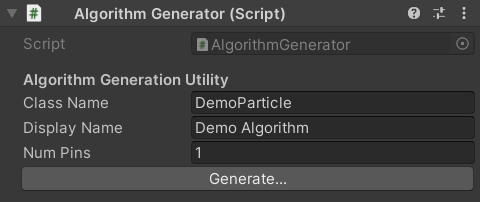
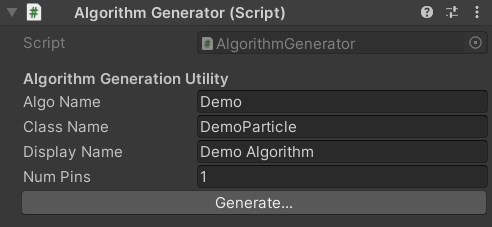
Adapted user guide to new namespaces and algorithm template structure

diff --git a/Documentation/user_guide/dev/demo.md b/Documentation/user_guide/dev/demo.md
@@ -25,6 +25,7 @@ In each round, the leader randomly decides whether a movement should be performe
 If it decides to perform a movement, it will send a beep on the global circuit (which has to be established first).
 All particles receiving a beep will perform a movement:
 If they are contracted, they will expand in the East direction and if they are expanded, they will contract into their tail.
+If some of these terms seem unfamiliar, you can refer to the [Model Reference pages](~/model_ref/home.md) for more information.
 
 From this description of the algorithm, we can already deduce that we will need a custom initialization method to place the particles and determine a leader, and that a single pin will be sufficient for this simple communication.
 Due to the common compass orientation, all particles know where the East direction is, which simplifies the movements (although it is possible to lift that assumption and still achieve a very similar behavior!).
@@ -56,20 +57,20 @@ Our new initialization method does not need parameters, but we will make the num
 
 ### Enabling Custom Initialization
 
-To start with, we uncomment the `DemoParticleInitializer` class at the bottom of the template file as well as the `GenerationMethod` property of the `DemoParticle` class and enter the name of the initializer class:
+To start with, we uncomment the `DemoInitializer` class at the bottom of the template file as well as the `GenerationMethod` property of the `DemoParticle` class and enter the name of the initializer class:
 
 ```csharp
 public class DemoParticle : ParticleAlgorithm
 {
     ...
     // If the algorithm has a special generation method, specify its full name here
-    public static new string GenerationMethod => typeof(DemoParticleInitializer).FullName;
+    public static new string GenerationMethod => typeof(DemoInitializer).FullName;
     ...
 }
 
-public class DemoParticleInitializer : InitializationMethod
+public class DemoInitializer : InitializationMethod
 {
-    public DemoParticleInitializer(ParticleSystem system) : base(system) { }
+    public DemoInitializer(AS2.Sim.ParticleSystem system) : base(system) { }
 
     // This method implements the system generation
     // Its parameters will be shown in the UI and they must have default values
@@ -162,7 +163,7 @@ We also change the leader particle's color so that it can be distinguished from 
 By adding the `leader` parameter to the `Init` method, we have implicitly created an attribute for the [`InitializationParticles`][6] placed by the generation method.
 In the Initialization Mode, all particles are placed as [`InitializationParticles`][6], which can be moved, deleted and edited freely.
 When the "Start" button is pressed, the [`InitializationParticles`][6] are turned into proper particles and their attributes are passed as parameters to the `Init` method of those particles.
-Thus, we could now manually determine a leader by selecting one of the particles in the Init Mode, setting its `leader` attribute to `true` and pressing "Start":
+Thus, we can now manually determine a leader by selecting one of the particles in the Init Mode, setting its `leader` attribute to `true` and pressing "Start":
 ![Selecting a leader manually](~/images/demo_init_manual_leader.png "Selecting a leader manually in Init Mode")
 ![Selected leader during simulation](~/images/demo_init_manual_leader_2.png "Manually selected leader in Simulation Mode")
 
@@ -269,7 +270,7 @@ If we run the algorithm now, the particles will set up the global circuit and th
 ![The established global circuit](~/images/demo_circuit_setup.png "The established global circuit")
 ![Irregular beeps](~/images/demo_circuit_beep.png "Irregular beeps indicated by the white flashes")
 
-The visual representation of the pin configurations clearly shows that all pins of each particle are contained in a single partition set.
+The visual representation of the pin configurations clearly shows that all pins of each particle are contained in a single partition set and that all partition sets are connected in a global circuit.
 When the leader sends a beep, its partition set is highlighted with a white dot and all connection lines of the circuit are flashing white.
 
 ### Performing the Movements
@@ -316,92 +317,98 @@ Please refer to the [Bonds and Joint Movements reference](~/model_ref/bonds_jm.m
 With the movements in place, our demo algorithm is complete!
 Here is the final code:
 ```csharp
+using AS2.Sim;
 using UnityEngine;
 
-public class DemoParticle : ParticleAlgorithm
+namespace AS2.Algos.Demo
 {
-    // This is the display name of the algorithm (must be unique)
-    public static new string Name => "Demo Algorithm";
 
-    // Specify the number of pins (may be 0)
-    public override int PinsPerEdge => 1;
-
-    // If the algorithm has a special generation method, specify its full name here
-    public static new string GenerationMethod => typeof(DemoParticleInitializer).FullName;
-
-    // Declare attributes here
-    public ParticleAttribute<bool> isLeader;
-
-    public DemoParticle(Particle p) : base(p)
+    public class DemoParticle : ParticleAlgorithm
     {
-        isLeader = CreateAttributeBool("Is Leader", false);
+        // This is the display name of the algorithm (must be unique)
+        public static new string Name => "Demo Algorithm";
 
-        SetMainColor(ColorData.Particle_Blue);
-    }
+        // Specify the number of pins (may be 0)
+        public override int PinsPerEdge => 1;
 
-    // Implement this if the particles require special initialization
-    // The parameters will be converted to particle attributes for initialization
-    public void Init(bool leader = false)
-    {
-        if (leader)
+        // If the algorithm has a special generation method, specify its full name here
+        public static new string GenerationMethod => typeof(DemoInitializer).FullName;
+
+        // Declare attributes here
+        public ParticleAttribute<bool> isLeader;
+
+        public DemoParticle(Particle p) : base(p)
         {
-            isLeader.SetValue(true);
-            SetMainColor(ColorData.Particle_Green);
+            isLeader = CreateAttributeBool("Is Leader", false);
+
+            SetMainColor(ColorData.Particle_Blue);
         }
-    }
 
-    // The movement activation method
-    public override void ActivateMove()
-    {
-        PinConfiguration pc = GetCurrentPinConfiguration();
-        if (pc.ReceivedBeepOnPartitionSet(0))
+        // Implement this if the particles require special initialization
+        // The parameters will be converted to particle attributes for initialization
+        public void Init(bool leader = false)
         {
-            // Received a beep => Perform movement
-            if (IsContracted())  // Expand East if contracted
-                Expand(Direction.E);
-            else                 // Contract into tail if expanded
-                ContractTail();
-        }
-    }
-
-    // The beep activation method
-    public override void ActivateBeep()
-    {
-        PinConfiguration pc = GetCurrentPinConfiguration(); // Get a PinConfiguration instance
-        pc.SetToGlobal(0);                                  // Collect all pins in partition set 0
-        SetPlannedPinConfiguration(pc);                     // Commit to use this pin configuration
-
-        if (isLeader)  // Only the leader should run this code
-        {
-            if (Random.Range(0.0f, 1.0f) < 0.5f)
+            if (leader)
             {
-                // Decided to move => Send a beep on the global circuit
-                pc.SendBeepOnPartitionSet(0);
+                isLeader.SetValue(true);
+                SetMainColor(ColorData.Particle_Green);
+            }
+        }
+
+        // The movement activation method
+        public override void ActivateMove()
+        {
+            PinConfiguration pc = GetCurrentPinConfiguration();
+            if (pc.ReceivedBeepOnPartitionSet(0))
+            {
+                // Received a beep => Perform movement
+                if (IsContracted())  // Expand East if contracted
+                    Expand(Direction.E);
+                else                 // Contract into tail if expanded
+                    ContractTail();
+            }
+        }
+
+        // The beep activation method
+        public override void ActivateBeep()
+        {
+            PinConfiguration pc = GetCurrentPinConfiguration(); // Get a PinConfiguration instance
+            pc.SetToGlobal(0);                                  // Collect all pins in partition set 0
+            SetPlannedPinConfiguration(pc);                     // Commit to use this pin configuration
+
+            if (isLeader)  // Only the leader should run this code
+            {
+                if (Random.Range(0.0f, 1.0f) < 0.5f)
+                {
+                    // Decided to move => Send a beep on the global circuit
+                    pc.SendBeepOnPartitionSet(0);
+                }
             }
         }
     }
-}
 
-// Use this to implement a generation method for this algorithm
-// Its class name must be specified as the algorithm's GenerationMethod
-public class DemoParticleInitializer : InitializationMethod
-{
-    public DemoParticleInitializer(ParticleSystem system) : base(system) { }
-
-    // This method implements the system generation
-    // Its parameters will be shown in the UI and they must have default values
-    public void Generate(int numParticles = 10)
+    // Use this to implement a generation method for this algorithm
+    // Its class name must be specified as the algorithm's GenerationMethod
+    public class DemoInitializer : InitializationMethod
     {
-        PlaceParallelogram(Vector2Int.zero, Direction.E, numParticles);
+        public DemoInitializer(AS2.Sim.ParticleSystem system) : base(system) { }
 
-        InitializationParticle[] particles = GetParticles();
-        if (particles.Length > 0)
+        // This method implements the system generation
+        // Its parameters will be shown in the UI and they must have default values
+        public void Generate(int numParticles = 10)
         {
-            int randIdx = Random.Range(0, particles.Length);
-            particles[randIdx].SetAttribute("leader", true);
+            PlaceParallelogram(Vector2Int.zero, Direction.E, numParticles);
+
+            InitializationParticle[] particles = GetParticles();
+            if (particles.Length > 0)
+            {
+                int randIdx = Random.Range(0, particles.Length);
+                particles[randIdx].SetAttribute("leader", true);
+            }
         }
     }
-}
+
+} // namespace AS2.Algos.Demo
 ```
 
 ## Next Steps

diff --git a/Documentation/user_guide/dev/creation.md b/Documentation/user_guide/dev/creation.md
@@ -26,12 +26,15 @@ In the Inspector window, you should now see the Algorithm Generator Component di
 
 You can now start editing the values in the input fields:
 
+- *Algo Name*: This is the basic internal identification of your algorithm.
+	It is used to name the classes belonging to the algorithm, a namespace that contains these classes and the file containing all your algorithm code.
+	It must be a valid C# identifier and unique among all algorithms.
 - *Class Name*: This will be the name of the class defining your algorithm.
 	It has to be a valid C# class name that does not already exist in the project.
-	The name you enter will also be used to name the algorithm file.
+	If you do not enter a name, the default name will be the algorithm base name with the suffix "Particle".
 - *Display Name*: This field defines the name that will be displayed in the algorithm selection field during runtime.
 	It can be an arbitrary string but it still has to be unique.
-	If you leave this field empty, the class name will be used.
+	If you leave this field empty, the base name will be used.
 - *Num Pins*: The number of pins per connection used by the algorithm.
 	Please refer to the [Reconfigurable Circuits page](~/amoebot_model/circuits.md) if you are not familiar with the concept of pins.
 	You can enter 0 if your algorithm does not use circuits at all.
@@ -49,6 +52,17 @@ Find the generated algorithm file in `Assets/Code/Algorithms` using the Project 
 The file contains a blank algorithm template in which all optional features are commented out.
 In the following, we will go through the structure of this file and explain the meaning of each component.
 
+### Namespaces
+
+The first two lines of the file include the [`AS2.Sim`][10] and the `UnityEngine` namespace.
+[`AS2.Sim`][10] contains classes and methods belonging to the algorithm and simulation API that are necessary for implementing an Amoebot algorithm, like the [`ParticleAlgorithm`][1] class.
+The `UnityEngine` namespace provides the Unity Editor logging system (accessed using `Debug.Log`) and random number generation (via `Random.Range`, for example).
+See [Advanced Features](advanced.md) for details.
+
+The rest of the code is contained in a namespace called `AS2.Algos.<YourAlgoBaseName>`.
+Every Amoebot algorithm should be contained in its own namespace within `AS2.Algos` to separate it from the other algorithms.
+Being contained in the [`AS2`][11] namespace provides access to all the relevant classes and methods of the algorithm API.
+It is safe to rename the algorithm's namespace later.
 
 ### The Algorithm Class
 
@@ -188,3 +202,5 @@ The [Implementation Walkthrough](demo.md) provides an example for how this syste
 [7]: xref:AS2.Sim.ParticleAlgorithm.ActivateBeep
 [8]: xref:AS2.InitializationMethod
 [9]: xref:AS2.Sim.ParticleSystem
+[10]: xref:AS2.Sim
+[11]: xref:AS2

diff --git a/Documentation/user_guide/dev/advanced.md b/Documentation/user_guide/dev/advanced.md
@@ -87,7 +87,7 @@ The second problem will be solved in the next section.
 ### Defining a Custom Message Type
 
 Custom Messages are defined as subclasses of the [`Message`][6] class.
-We start by defining our new class in the demo algorithm file, above the algorithm class, and giving it a member to store the direction as well as a default constructor without parameters:
+We start by defining our new class in the demo algorithm file, above the algorithm class but *inside the algorithm namespace*, and giving it a member to store the direction as well as a default constructor without parameters:
 ```csharp
 public class DemoDirectionMsg : Message
 {
